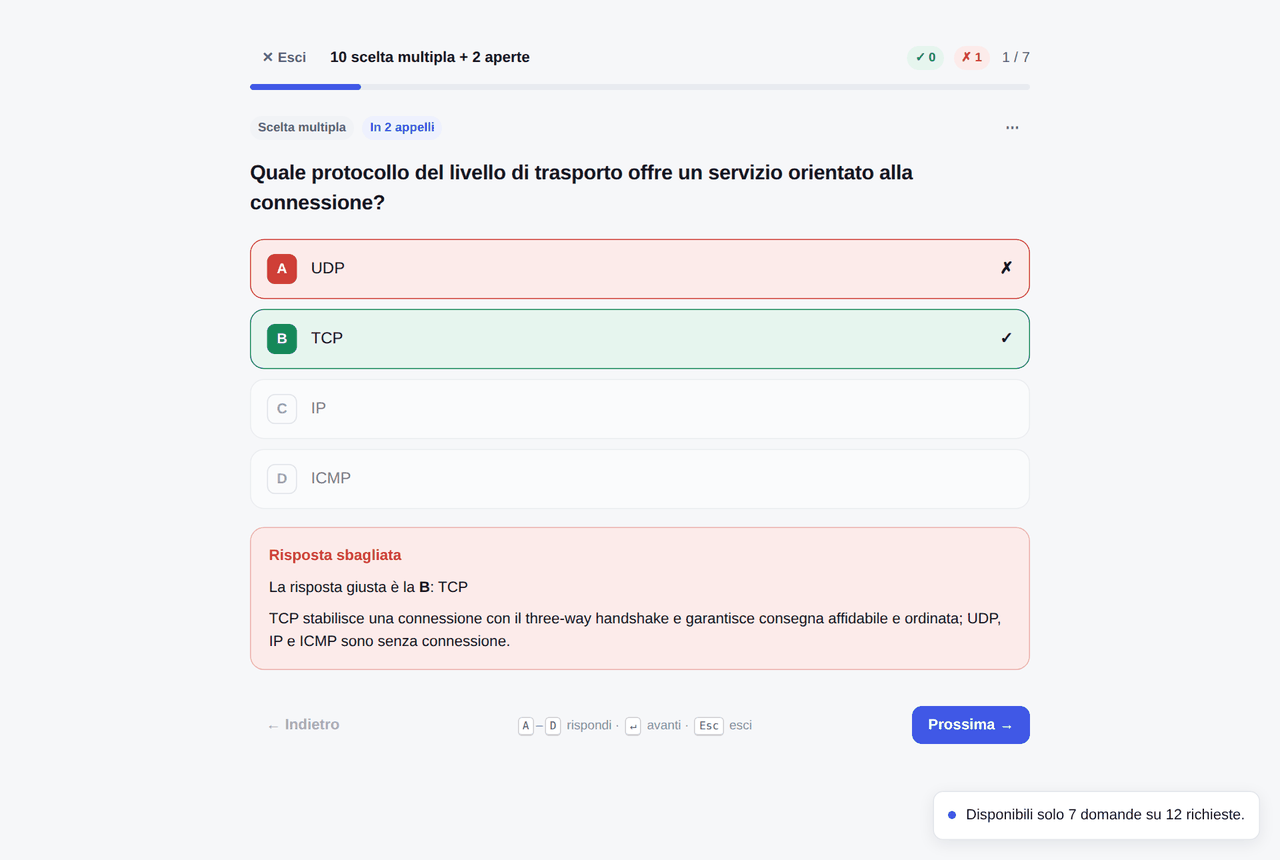
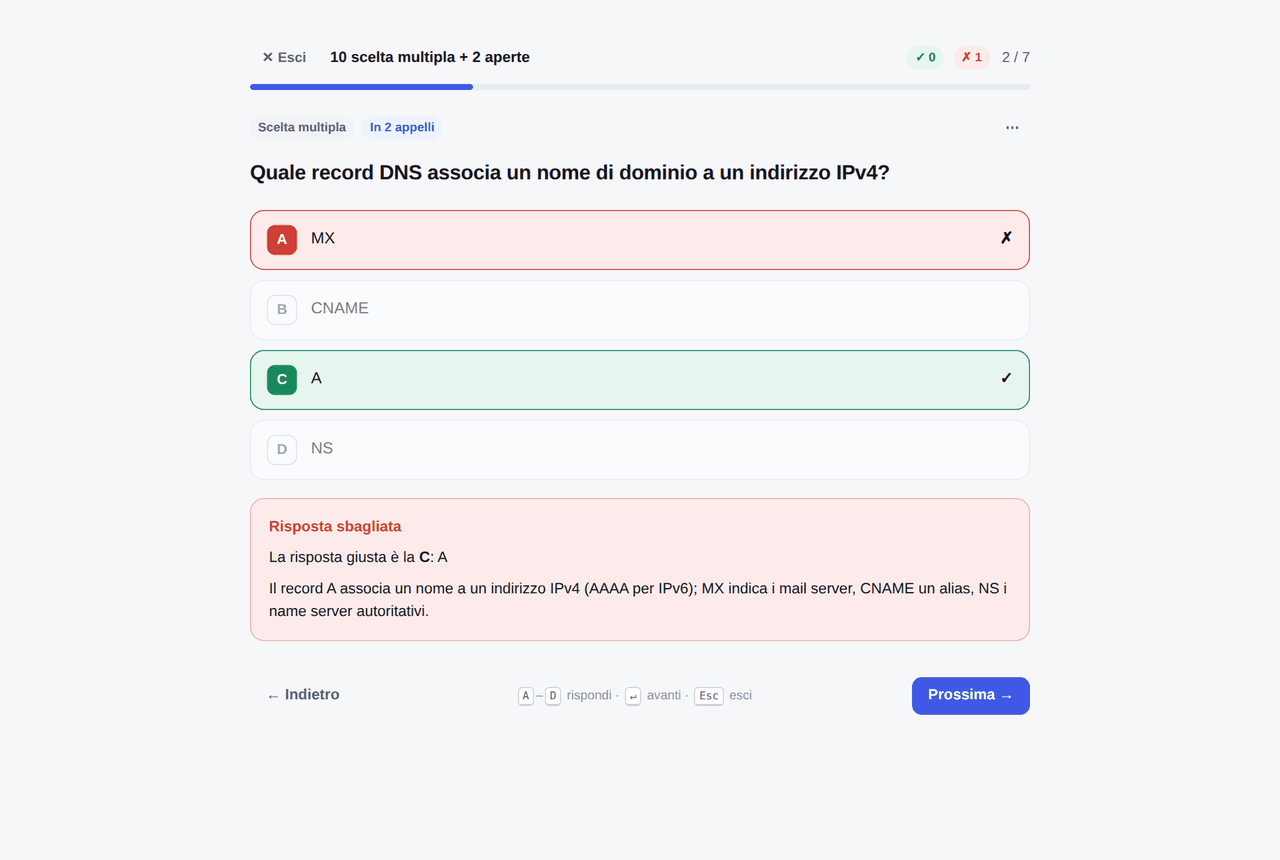
Update README screenshots, fix flaky browser test
- Screenshots taken from a clean demo database built from examples/.
- The end-to-end test now waits for the next question to render before
  inspecting the page (it could click a stale button and stall on an open
  question).
- Open questions in simulations can be skipped like multiple-choice ones.

diff --git a/app/static/js/study.js b/app/static/js/study.js
@@ -810,7 +810,10 @@ function renderQuestion(top, question, correction) {
         ? html`<button class="btn btn--secondary" data-action="next">${lastOfSimulation ? "Vedi risultati" : "Salta"}</button>`
         : ""}`;
   } else if (!isMcq && !answered) {
-    primary = html`<button class="btn" data-action="reveal">Mostra soluzione <kbd>↵</kbd></button>`;
+    primary = html`${session.kind === "simulation"
+        ? html`<button class="btn btn--ghost" data-action="next">${lastOfSimulation ? "Vedi risultati" : "Salta"}</button>`
+        : ""}
+      <button class="btn" data-action="reveal">Mostra soluzione <kbd>↵</kbd></button>`;
   } else {
     const label = lastOfSimulation || lastOfReview ? "Vedi risultati" : "Prossima";
     const waiting = !isMcq && answered && !answered.selfAssessed;

diff --git a/tests/integration/test_ui_e2e.py b/tests/integration/test_ui_e2e.py
@@ -76,12 +76,19 @@ def test_upload_curate_and_study(page, server: str, sample_exams: tuple[Path, Pa
     for _ in range(20):
         if page.locator(".summary").count():
             break
+        counter = page.locator(".session__counter").inner_text()
         if page.locator(".option:not([disabled])").count():
             page.keyboard.press("b")
-        elif page.locator("[data-action='reveal']").count():
-            page.keyboard.press("Enter")
-            page.keyboard.press("1")
-        page.locator("[data-action='next']:not([disabled])").first.click()
+        else:
+            page.locator("[data-action='reveal']").click()
+            page.locator("[data-action='knew']").click()
+        page.locator("[data-action='next']:not([disabled])").filter(has_text="→").click()
+        # The next question renders asynchronously: wait for it before inspecting the page.
+        page.wait_for_function(
+            "previous => !document.querySelector('.session__counter')"
+            " || document.querySelector('.session__counter').textContent !== previous",
+            arg=counter,
+        )
     expect(page.locator(".summary h1")).to_contain_text("giuste")
 
     # The simulation is in the history with its score.
